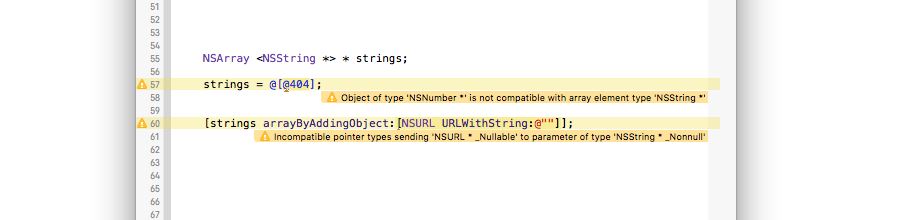
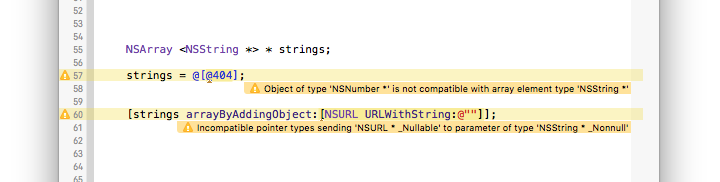
Update generics article

diff --git a/articles/drafts/objective-c-generics.md b/articles/drafts/objective-c-generics.md
@@ -33,7 +33,9 @@ Vous pouvez également utiliser le mot clé `__kindof` pour étendre cette défi
 
 Détail important : comme pour le type d’une variable, il ne s’agit que d’une déclaration, pas d’une contrainte absolue. Les _generics_ ne garantissent pas dynamiquement le contenu d’une collection. En revenche, le compilateur utilise cette information pour repérer les cas non-conformes, et émettre des _warnings_ (⚠) en conséquence. 
 
-// screenshot
+![Warnings Xcode][Xcode warning]
+
+Comme on peut le voir sur cet exemple, Xcode ne s’arrête à l’affectation de valeurs, mais contrôle également les méthodes de manipulation de la collection, comme ici le `arrayByAddingObject:`.
 
 
 ## Interopérabilité Swift
@@ -69,3 +71,5 @@ On trouvait souvent des documentations précisant le type attendu pour les varia
 
 - [What’s New in Xcode: New Features in Xcode 7, Apple](https://developer.apple.com/library/prerelease/ios/documentation/DeveloperTools/Conceptual/WhatsNewXcode/Articles/xcode_7_0.html)
 - [Using Swift with Cocoa and Objective-C: Interacting with Objective-C APIs, Apple](https://developer.apple.com/library/prerelease/ios/documentation/Swift/Conceptual/BuildingCocoaApps/InteractingWithObjective-CAPIs.html#//apple_ref/doc/uid/TP40014216-CH4-ID35)
+
+[Xcode warning]: http://www.vtourraine.net/blog/img/2015/objective-c-generics/xcode-warnings.png
